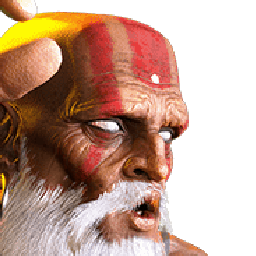
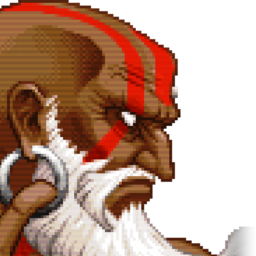
Update sf6 assets

diff --git a/portraits/gen_cropped_assets.py b/portraits/gen_cropped_assets.py
@@ -2,8 +2,8 @@ import json
 from PIL import Image
 
 game = "sf6"
-pack = "base_files/icon"
-customZoom = 2.4
+pack = "pixel_art"
+customZoom = 1.4
 targetW = 256
 targetH = 256
 
